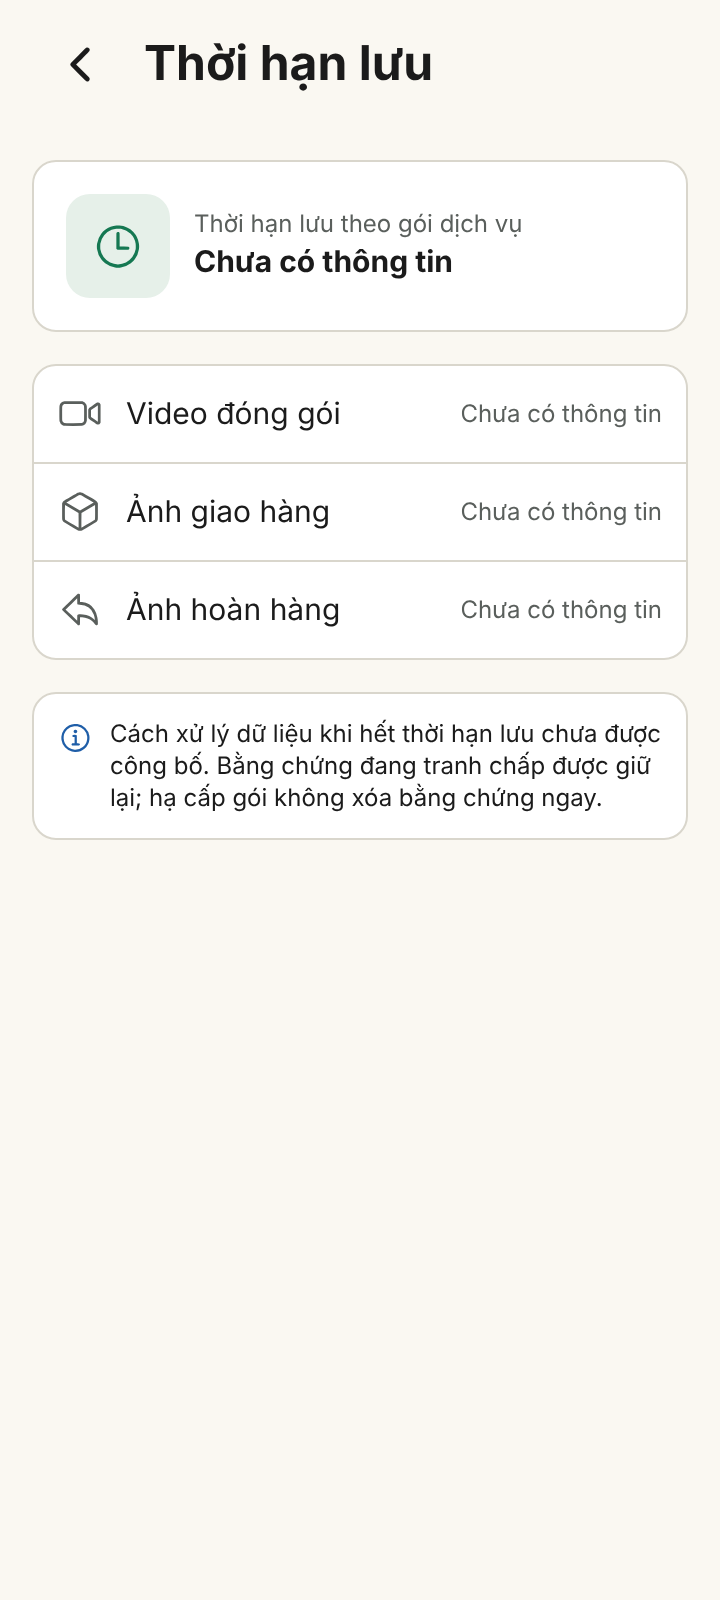
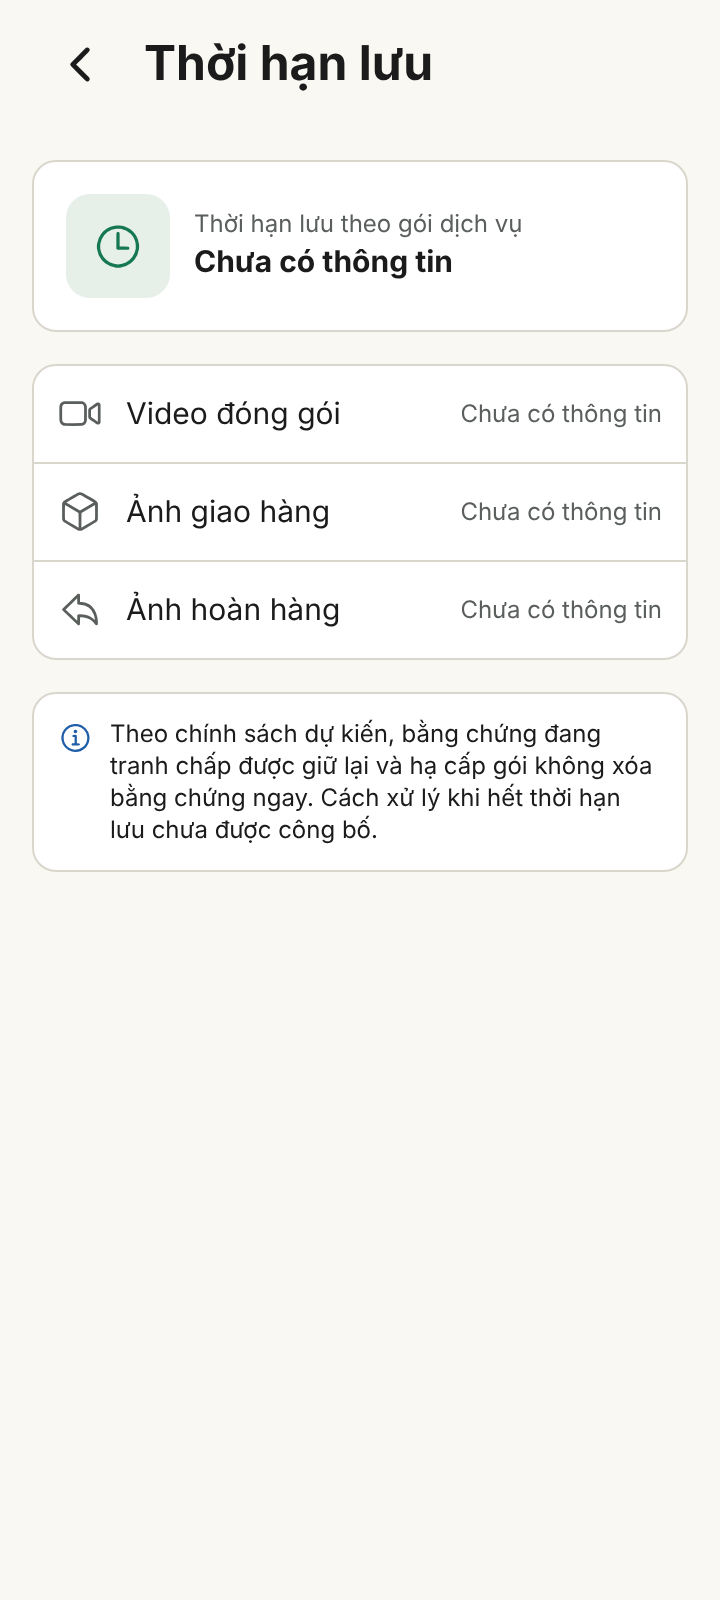
docs(personal): ảnh bản web khung 13, 14 (PR-G), chụp lại khung 12, checklist giống design
Claude-Session: https://claude.ai/code/session_01EqYbDcnm1zXTanGNx6inm6

Changed region(s): [[0.1528, 0.4375, 0.9167, 0.5312]]

diff --git a/docs/assets/screens/personal-tab-v3/README.md b/docs/assets/screens/personal-tab-v3/README.md
@@ -181,4 +181,34 @@
 | Chuỗi chữ | lệch có chủ đích | lệch có chủ đích | "Chưa có số liệu"/"Chưa có thông tin" thay số; không "Gói tiêu chuẩn"; ghi chú khung 12 đổi câu (D19) |
 
 
-**Lưu ý sau review PR #19:** chữ thẻ ghi chú của ảnh `pr-f-12-*` đã cũ (câu mới: "Theo chính sách dự kiến, bằng chứng đang tranh chấp được giữ lại và hạ cấp gói không xóa bằng chứng ngay. Cách xử lý khi hết thời hạn lưu chưa được công bố."). Chưa chụp lại vì không dựng được bản sao ngoài repo trong môi trường này; chụp lại khi có điều kiện.
+**Ảnh `pr-f-12-*` đã chụp lại ở PR-G** với câu ghi chú mới theo D19 ("Theo chính sách dự kiến...").
+
+# Ảnh đối chiếu PR-G: Cài đặt thông báo (khung 13) và Quyền riêng tư và bảo mật (khung 14)
+
+**Lưu ý trung thực:** ảnh render **bản web** (react-native-web trong Chromium) của màn thật trên **cổng giả**, **không phải ảnh chụp trên iOS/Android thật**; 320x568, 360x800, 390x844 (hệ số 2) và chữ lớn 1.6 lần ở 320x568 (bản sao ngoài repo nhân cỡ chữ của `Text`; icon không phóng theo). Bản sao ngoài repo có tham số URL tạm (`state=savefail|loaderror|loading`, `method=google`, `fs=`) KHÔNG commit. Công tắc ở ảnh là cổng giả trong bộ nhớ.
+
+| Ảnh | Nội dung |
+| --- | --- |
+| `pr-g-13-notifications-{320x568,360x800,390x844}.png`, `...-largetext-320x568.png` | Khung 13: thẻ "Thông báo đẩy: sắp có" + bốn công tắc (mặc định cổng giả) |
+| `pr-g-13-save-error-*.png` | Bấm "Đồng bộ dữ liệu" khi cổng báo lỗi lưu: công tắc hoàn về Tắt, thẻ cảnh báo "Chưa lưu được cài đặt. Bạn thử lại nhé." |
+| `pr-g-13-load-error-*.png` | Không tải được cài đặt (cổng chưa kết nối): thẻ lỗi + Thử lại, không công tắc |
+| `pr-g-14-security-*.png`, `...-largetext-320x568.png` | Khung 14, tài khoản mật khẩu |
+| `pr-g-14-security-google-*.png` | Khung 14, tài khoản Google: hàng Đổi mật khẩu chỉ là ghi chú |
+| `pr-g-board-reference-13.png`, `-14.png`, `-13-14.png` | Khung 13, 14 cắt từ board 07 (phóng 4x, board độ phân giải thấp) |
+| `pr-g-compare-board-vs-app-390.png` | Hàng trên board, hàng dưới app 390x844 |
+| `pr-f-12-retention-*.png` | Chụp lại khung 12 (câu ghi chú D19 mới) |
+
+## Checklist "giống design"
+
+| Hạng mục | 13 | 14 | Ghi chú lệch |
+| --- | --- | --- | --- |
+| Bố cục và thứ tự khối | lệch có chủ đích | gần | 13: thẻ "Thông báo đẩy: sắp có" ở ĐẦU (board: thẻ cam quyền bị từ chối ở cuối, không dựng vì chưa có adapter đọc quyền); bốn công tắc (board năm). 14: nhóm một thẻ có đường kẻ (board: mỗi hàng một thẻ); "Xóa tài khoản" tách nhóm riêng |
+| Thứ bậc chữ | đạt | đạt | tiêu đề 14 xuống dòng ở 390px (chữ lớn hơn board) |
+| Màu thẻ/nền | gần | gần | không thẻ cam; hàng khóa mờ |
+| Icon | gần | gần | glyph Ionicons gần nghĩa, duyệt ở ảnh PR; "Xóa tài khoản" icon cảnh báo (board: thùng rác) |
+| Nút | - | - | không nút "Mở Cài đặt" (không có thẻ quyền) |
+| Header | đạt | đạt | mũi tên trái, tiêu đề lệch trái |
+| Thanh tab | hiện | hiện | route gốc UI-I04/UI-I05 (Q-21t); Đổi mật khẩu (route con) ẩn |
+| Trạng thái | đạt | đạt | 13: tải, lỗi tải, lỗi lưu, đang lưu (công tắc khóa); 14: tải/lỗi hồ sơ, tài khoản Apple/Google |
+| Chữ lớn | đạt | đạt | nhãn và huy hiệu "Sắp có" xuống dòng |
+| Chuỗi chữ | lệch có chủ đích | lệch có chủ đích | 13: bỏ "Tài khoản", "Cập nhật sản phẩm"; "Thời hạn lưu" -> "Dung lượng sắp đầy"/"Gói sắp hết hạn", thêm "Tải lên lỗi hoặc cần xử lý" (docs/09). 14: "Xác nhận 2 lớp" + "Sắp có" (board "Xác thực 2 lớp: Chưa bật"); mọi hàng chưa làm "Sắp có"; xem mục 6.7 của plan |
